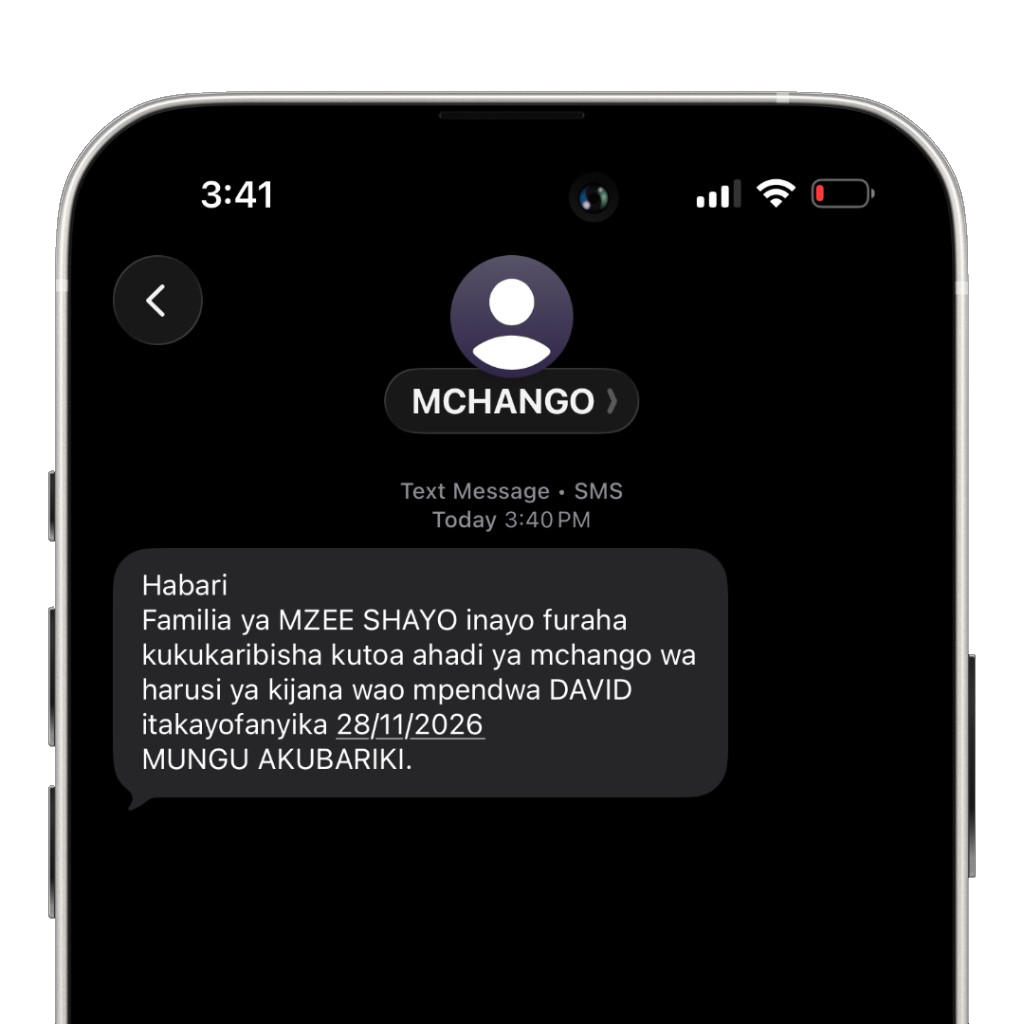
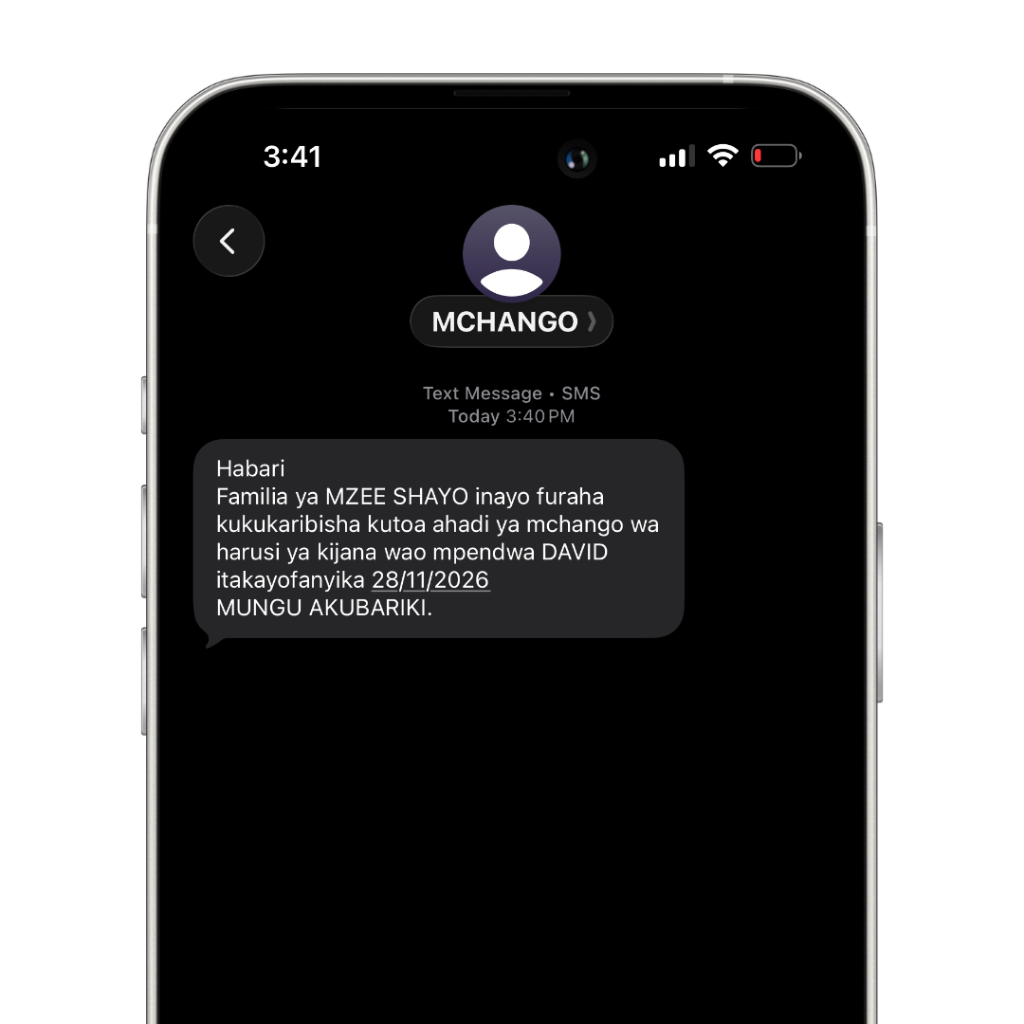
emails sends

diff --git a/resources/js/features/landing/index.tsx b/resources/js/features/landing/index.tsx
@@ -101,7 +101,7 @@ export function LandingPage() {
               className='absolute inset-x-[6%] top-[10%] bottom-[20%] -z-10 rounded-full bg-primary/25 blur-3xl dark:bg-primary/30'
             />
             <img
-              src='/images/hero-sms.png'
+              src='/images/hero-sms.png?v=2'
               alt='SMS from MCHANGO received on a phone'
               width={1024}
               height={1024}
